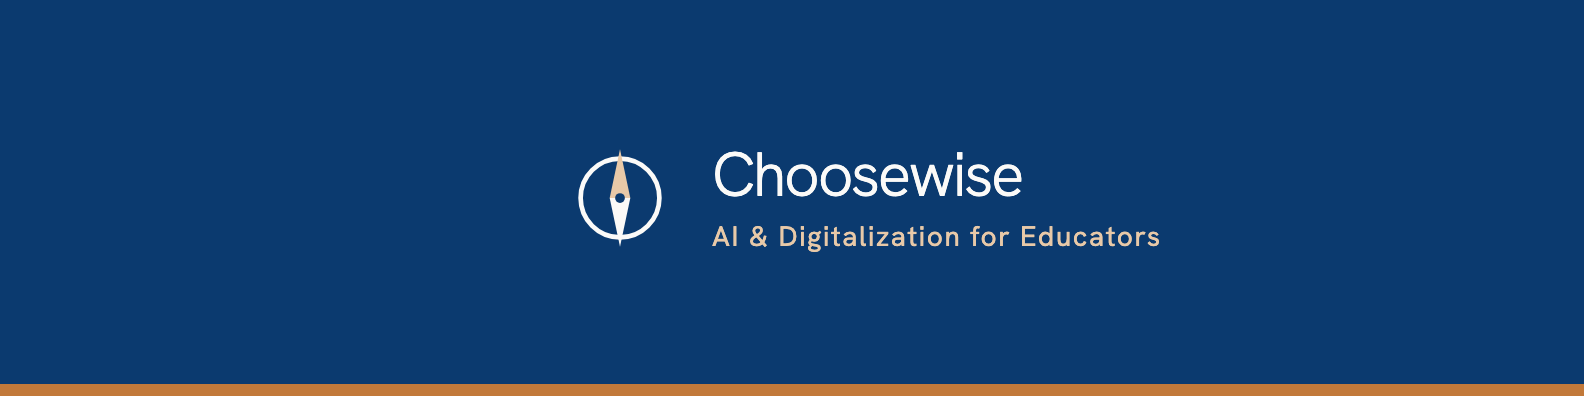
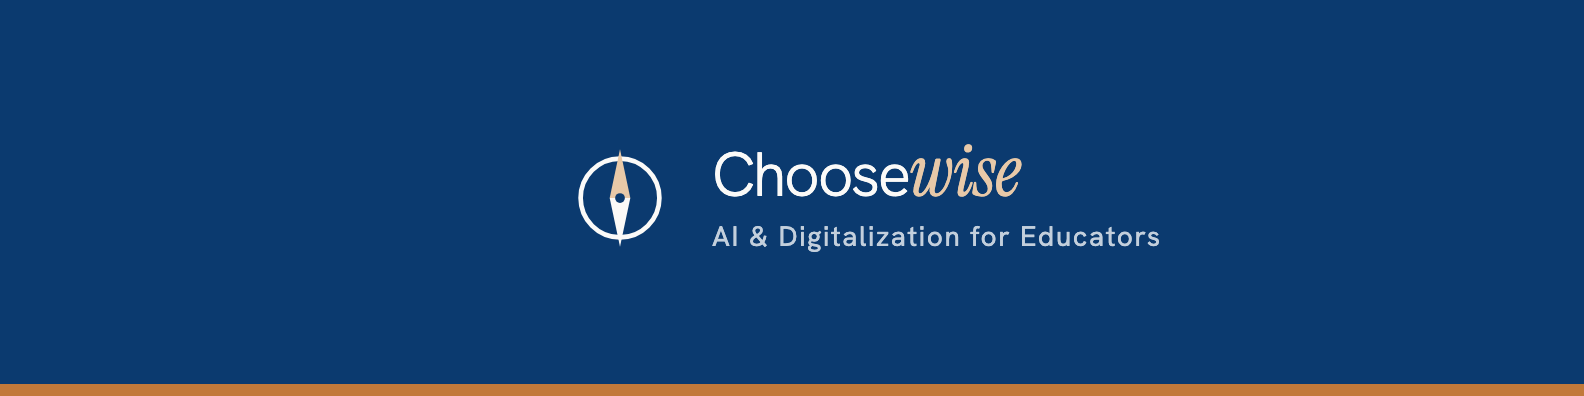
feat(brand): ordmärket delas i Choose + kursivt wise
Johans beslut 2026-10-22, förslag C av tre: "wise" sätts i Instrument
Serif kursiv i sand så att ordet kan ägas fristående (WISE educators,
WISE-ramverket), medan "Choose" står kvar i Hanken Grotesk. Underrubriken
går från sand till dämpad blågrå (#C3CFDC, sajtens border-strong) så att
sanden bara hör till wise.

Gäller Skool-omslaget och båda LinkedIn-bannrarna. render_png väntar nu
på båda typsnitten innan skärmdump, och typsnittsvakten kontrollerar
varje @font-face-väg i stället för bara den första.

Changed region(s): [[0.4331, 0.5758, 0.7424, 0.6364], [0.5568, 0.3636, 0.6496, 0.5152]]

diff --git a/scripts/build-brand-assets.py b/scripts/build-brand-assets.py
@@ -29,6 +29,7 @@ PORT = 8801
 BLUE = "#0B3A6F"
 CREAM = "#FBFAF8"
 COPPER_DK = "#E8C9A8"
+MIST = "#C3CFDC"   # sajtens --color-border-strong; underrubriken, så att sanden bara hör till wise
 
 # Märkets element plockas UT ur källfilen, aldrig skrivna på nytt här.
 # Skriver man dem två gånger har man två sanningar.
@@ -85,9 +86,10 @@ def serve() -> socketserver.TCPServer:
     return httpd
 
 
-# Måste matcha @font-face-källan i card_svg() (och i render-og-pngs.py,
-# som vaktar samma väg för de 12 og-korten).
+# Måste matcha @font-face-källorna i card_svg() (Hanken-vägen också i
+# render-og-pngs.py, som vaktar samma väg för de 12 og-korten).
 FONT_SUFFIX = "fonts/hanken-grotesk/HankenGrotesk-VariableFont.woff2"
+SERIF_SUFFIX = "fonts/instrument-serif/InstrumentSerif-Italic.woff2"
 
 
 def render_png(page, svg_text: str, w: int, h: int, out: Path,
@@ -113,14 +115,15 @@ def render_png(page, svg_text: str, w: int, h: int, out: Path,
     out.parent.mkdir(parents=True, exist_ok=True)
     page.set_viewport_size({"width": w, "height": h})
 
-    needs_font = FONT_SUFFIX in svg_text
-    font_response: dict[str, object] = {"seen": False, "ok": False, "status": None}
+    fonts = [s for s in (FONT_SUFFIX, SERIF_SUFFIX) if s in svg_text]
+    needs_font = bool(fonts)
+    responses: dict[str, dict[str, object]] = {
+        s: {"seen": False, "ok": False, "status": None} for s in fonts}
 
     def on_response(resp):
-        if resp.url.endswith(FONT_SUFFIX):
-            font_response["seen"] = True
-            font_response["ok"] = resp.ok
-            font_response["status"] = resp.status
+        for s in fonts:
+            if resp.url.endswith(s):
+                responses[s].update(seen=True, ok=resp.ok, status=resp.status)
 
     if needs_font:
         assert svg_path is not None, (
@@ -131,13 +134,14 @@ def render_png(page, svg_text: str, w: int, h: int, out: Path,
         page.goto(f"http://127.0.0.1:{PORT}/{rel}", wait_until="networkidle")
         page.wait_for_timeout(300)  # låt typsnittet sätta sig
         page.remove_listener("response", on_response)
-        if not font_response["seen"] or not font_response["ok"]:
-            raise RuntimeError(
-                f"Hanken Grotesk laddades inte för {out.relative_to(ROOT)} — "
-                f"väntade en lyckad begäran till .../{FONT_SUFFIX}, fick "
-                f"seen={font_response['seen']} status={font_response['status']}. "
-                f"Vägrar skärmdumpa ett kort som tyst skulle falla tillbaka "
-                f"till ett systemtypsnitt.")
+        for s, r in responses.items():
+            if not r["seen"] or not r["ok"]:
+                raise RuntimeError(
+                    f"Typsnittet laddades inte för {out.relative_to(ROOT)} — "
+                    f"väntade en lyckad begäran till .../{s}, fick "
+                    f"seen={r['seen']} status={r['status']}. "
+                    f"Vägrar skärmdumpa ett kort som tyst skulle falla tillbaka "
+                    f"till ett systemtypsnitt.")
     else:
         page.set_content(
             f'<body style="margin:0">{svg_text}</body>',
@@ -187,7 +191,7 @@ def build_favicons(page) -> None:
 
 
 def card_svg(w: int, h: int, mark_size: int, mark_x: int, mark_y: int,
-             title: str | None, subtitle: str | None,
+             title: tuple[str, str] | None, subtitle: str | None,
              title_pt: int, sub_pt: int, text_x: int,
              title_y: int, sub_y: int, band: int,
              anchor: str = "start") -> str:
@@ -201,7 +205,10 @@ def card_svg(w: int, h: int, mark_size: int, mark_x: int, mark_y: int,
         f'viewBox="0 0 {w} {h}">',
         '<style>@font-face{font-family:"Hanken Grotesk";'
         'src:url("/assets/fonts/hanken-grotesk/HankenGrotesk-VariableFont.woff2") '
-        'format("woff2");font-weight:300 600}</style>',
+        'format("woff2");font-weight:300 600}'
+        '@font-face{font-family:"Instrument Serif";font-style:italic;'
+        'src:url("/assets/fonts/instrument-serif/InstrumentSerif-Italic.woff2") '
+        'format("woff2")}</style>',
         f'<rect width="{w}" height="{h}" fill="{BLUE}"/>',
         f'<rect y="{h - band}" width="{w}" height="{band}" fill="#C2793A"/>',
     ]
@@ -213,21 +220,28 @@ def card_svg(w: int, h: int, mark_size: int, mark_x: int, mark_y: int,
             f'<svg x="{mark_x}" y="{mark_y}" width="{mark_size}" height="{mark_size}" '
             f'viewBox="0 0 64 64">{mark_markup("dark")}</svg>')
     tail = f' text-anchor="{anchor}"' if anchor != "start" else ""
+    # Ordmärket delas i två: "Choose" i Hanken, "wise" i Instrument Serif
+    # kursiv och sand. Johans beslut 2026-10-22 (förslag C) — wise ska kunna
+    # ägas som eget ord. Serifen har lägre x-höjd, därav 1,16 gånger storleken.
     if title:
+        choose, wise = title
         parts.append(
             f'<text x="{text_x}" y="{title_y}"{tail} font-family="Hanken Grotesk, sans-serif" '
-            f'font-size="{title_pt}" font-weight="300" fill="{CREAM}" '
-            f'letter-spacing="-2">{title}</text>')
+            f'font-size="{title_pt}">'
+            f'<tspan font-weight="300" fill="{CREAM}" letter-spacing="-2">{choose}</tspan>'
+            f'<tspan font-family="Instrument Serif, serif" font-style="italic" '
+            f'font-size="{round(title_pt * 1.16)}" fill="{COPPER_DK}" letter-spacing="0">'
+            f'{wise}</tspan></text>')
     if subtitle:
         parts.append(
             f'<text x="{text_x}" y="{sub_y}"{tail} font-family="Hanken Grotesk, sans-serif" '
-            f'font-size="{sub_pt}" font-weight="400" fill="{COPPER_DK}" '
+            f'font-size="{sub_pt}" font-weight="400" fill="{MIST}" '
             f'letter-spacing="1.6">{subtitle}</text>')
     parts.append("</svg>")
     return "".join(parts)
 
 
-TITLE = "Choosewise"
+TITLE = ("Choose", "wise")
 SUBTITLE = "AI &amp; Digitalization for Educators"
 
 

diff --git a/scripts/tests/test_brand_mark.py b/scripts/tests/test_brand_mark.py
@@ -361,10 +361,32 @@ _FONT_URL = re.compile(r'url\("?([^")]+?)"?\)')
                                  "linkedin/personal-banner.svg"])
 def test_generated_card_font_path_exists(rel):
     text = (ROOT / "assets/images/brand" / rel).read_text(encoding="utf-8")
-    match = _FONT_URL.search(text)
-    assert match, f"{rel}: no @font-face src url found"
-    font_path = ROOT / match.group(1).lstrip("/")
-    assert font_path.exists(), f"{rel}: font path {match.group(1)} does not exist"
+    urls = _FONT_URL.findall(text)
+    assert urls, f"{rel}: no @font-face src url found"
+    for url in urls:
+        font_path = ROOT / url.lstrip("/")
+        assert font_path.exists(), f"{rel}: font path {url} does not exist"
+
+
+@pytest.mark.parametrize("rel", ["skool/cover.svg", "linkedin/page-banner.svg",
+                                 "linkedin/personal-banner.svg"])
+def test_the_wordmark_splits_choose_and_wise(rel):
+    """Johans beslut 2026-10-22, förslag C: "wise" ska kunna ägas som eget
+    ord, så det sätts i Instrument Serif kursiv i sand medan "Choose" står
+    kvar i Hanken Grotesk. Underrubriken går över till dämpad blågrå så att
+    sanden bara hör till wise."""
+    text = (ROOT / "assets/images/brand" / rel).read_text(encoding="utf-8")
+    assert ">Choosewise<" not in text, f"{rel} bär kvar det odelade ordmärket"
+    choose = re.search(r'<tspan[^>]*>Choose</tspan>', text)
+    wise = re.search(r'<tspan[^>]*>wise</tspan>', text)
+    assert choose and wise, f"{rel}: Choose och wise ska vara egna tspan"
+    assert 'fill="#FBFAF8"' in choose.group(0)
+    assert 'font-family="Instrument Serif' in wise.group(0)
+    assert 'font-style="italic"' in wise.group(0)
+    assert 'fill="#E8C9A8"' in wise.group(0)
+    sub = re.search(r'<text[^>]*>AI &amp;', text)
+    assert sub and 'fill="#C3CFDC"' in sub.group(0), \
+        f"{rel}: underrubriken ska vara dämpad blågrå"
 
 
 SUBTITLE = "AI &amp; Digitalization for Educators"
